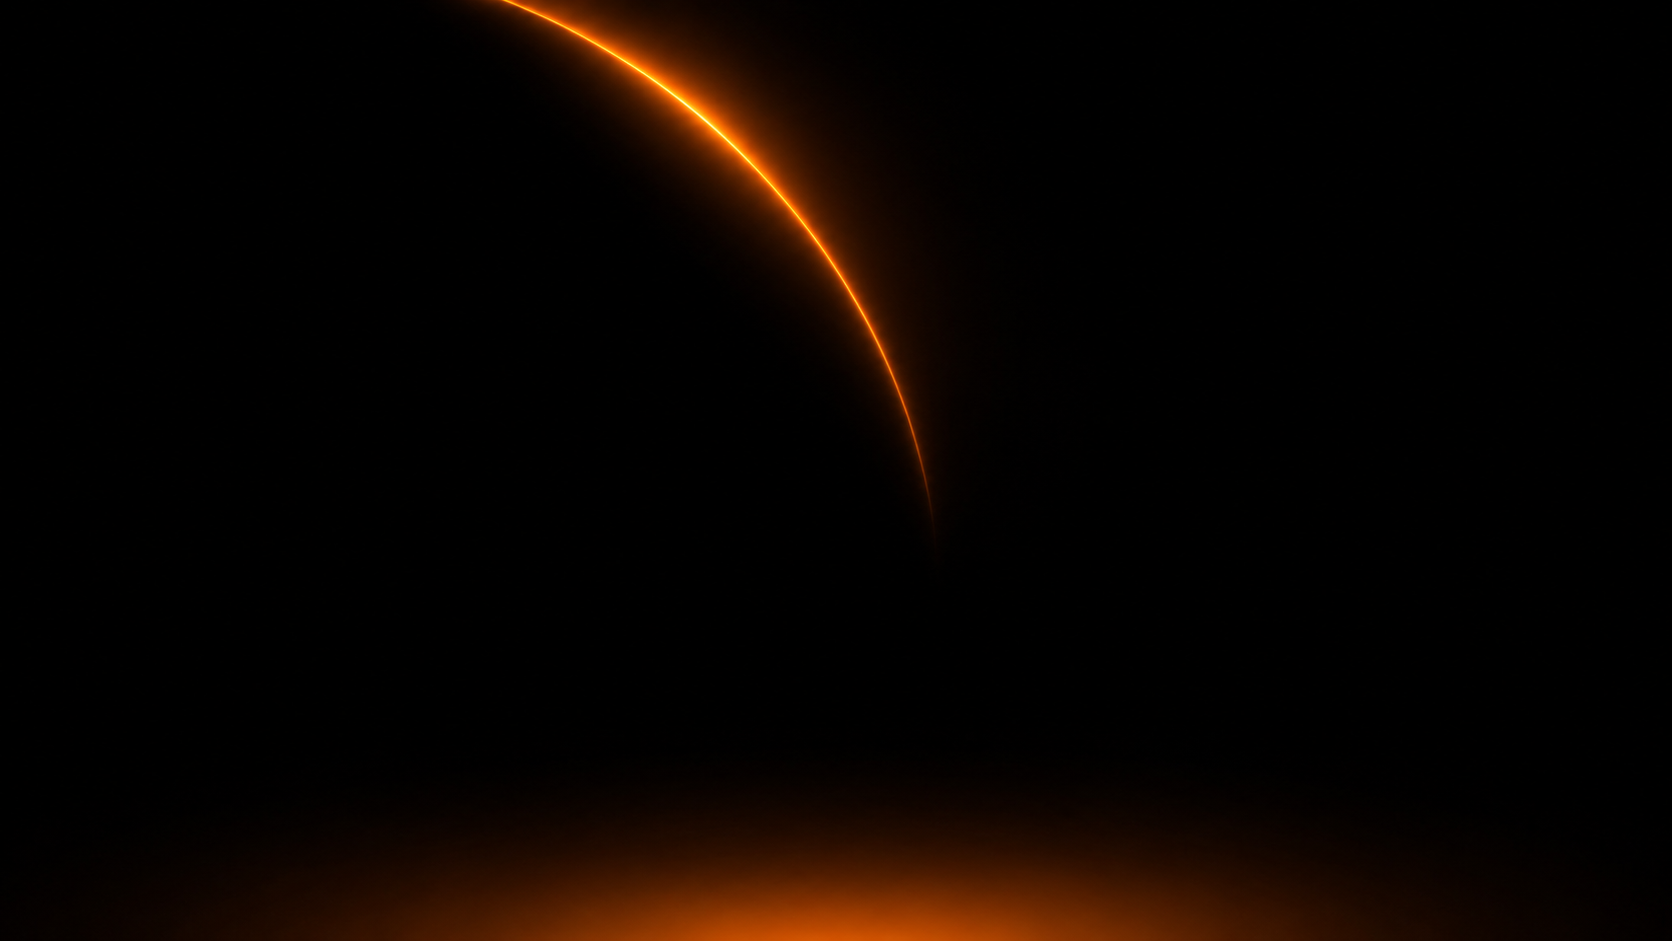
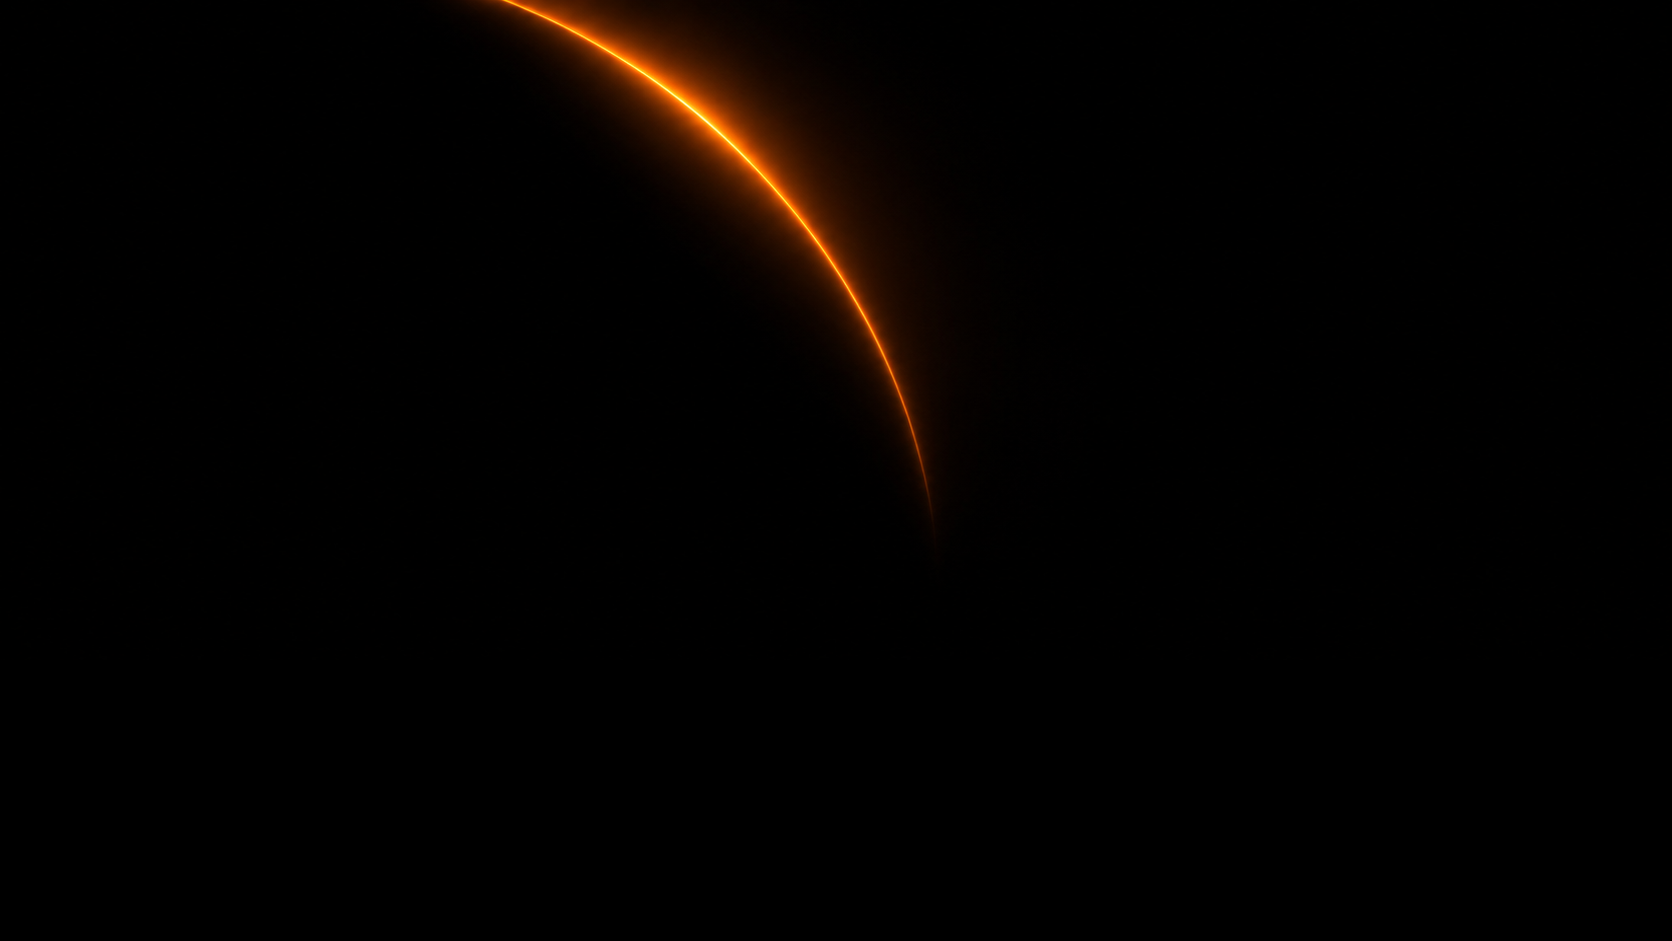
Move o brilho de baixo pro fim de verdade da página, não pra tela fixa
O background-attachment:fixed prendia a imagem inteira (arco +
glow) na tela, então o glow do horizonte aparecia no meio do
conteúdo dependendo de quanto a página tinha rolado, em vez de
aparecer só quando a página realmente termina.

Separa os dois: corta o glow da imagem fixa (só sobra o arco preso
na tela) e recria o glow como uma camada própria ancorada no fim
real do .painel, que rola normalmente e só some à vista quando o
usuário chega ao final do conteúdo.

Changed region(s): [[0.1244, 0.8629, 0.8708, 1.0]]

diff --git a/frontend/src/styles.css b/frontend/src/styles.css
@@ -97,6 +97,18 @@ aside::-webkit-scrollbar {
   }
 }
 
+/* brilho quente no final de verdade da página — acompanha a rolagem normal
+   (não é fixed), então só aparece quando o conteúdo realmente termina */
+.painel-glow::after {
+  content: '';
+  position: absolute;
+  left: 0;
+  right: 0;
+  bottom: 0;
+  height: 340px;
+  background: radial-gradient(ellipse 900px 340px at 50% 100%, rgba(255, 122, 26, 0.28) 0%, rgba(255, 122, 26, 0.1) 45%, rgba(255, 122, 26, 0) 75%);
+}
+
 /* cards e superfícies "vidro": duas camadas de background em vez de depender só de backdrop-filter */
 .painel .card-glass,
 .painel .rounded-xl.border.border-zinc-800.bg-zinc-900\/60,
